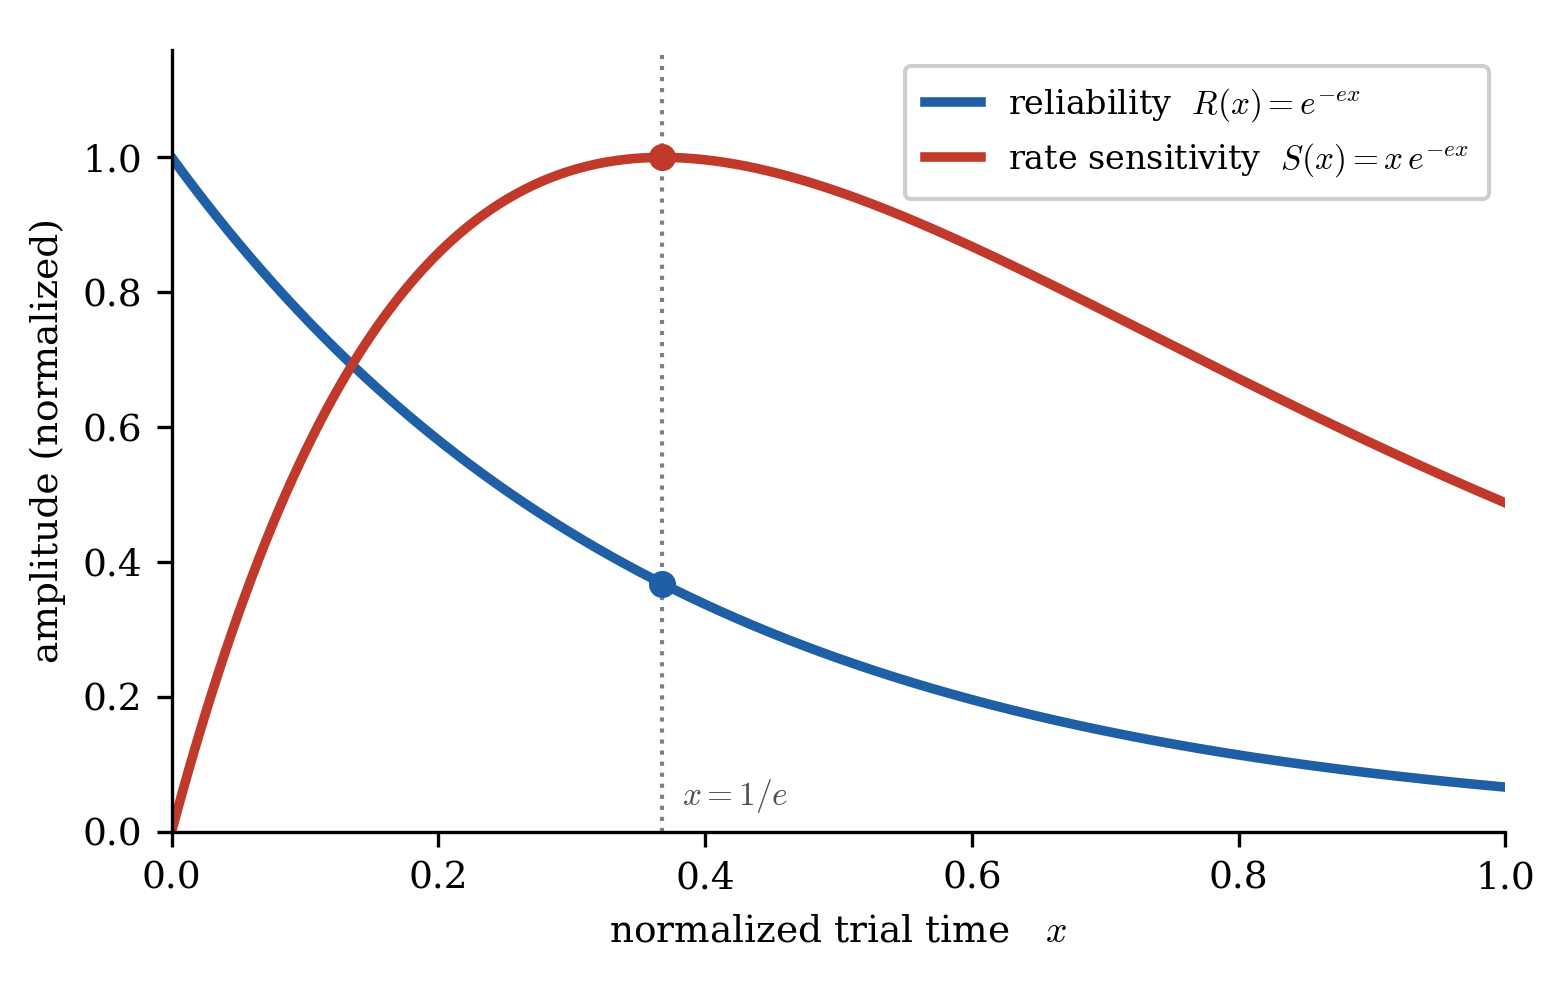
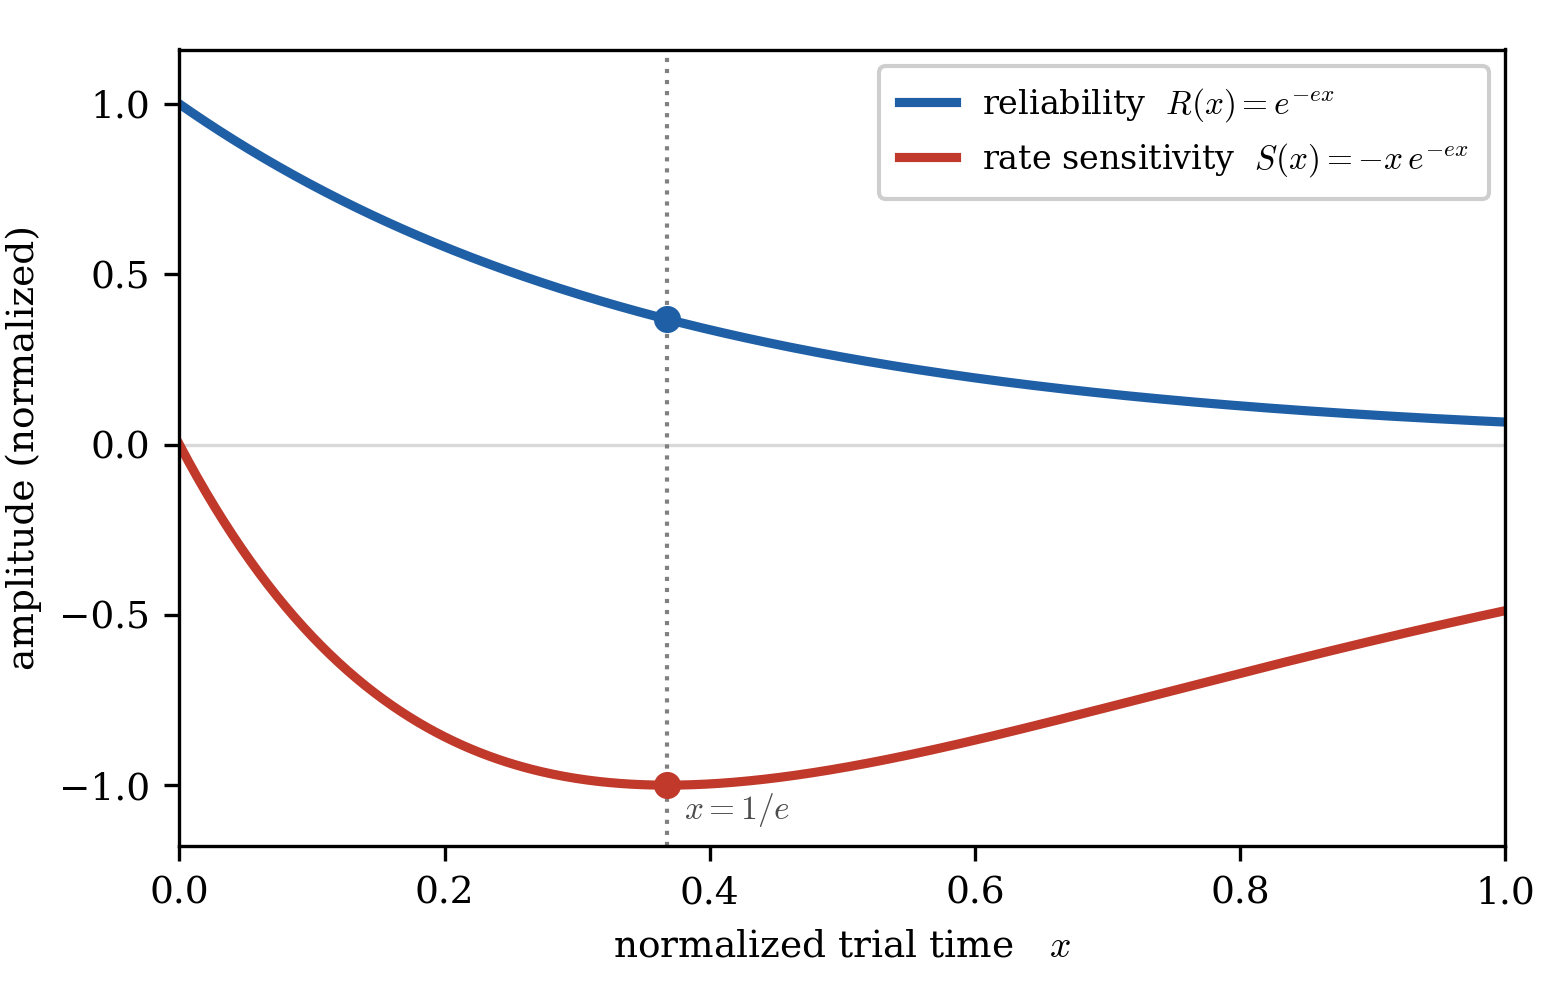
concept fig: signed rate-sensitivity S(x)=-x e^{-ex} in the canonical generator
The generator computed the OLD unsigned S(x)=x e^{-ex} (peak); the signed
convention (trough; sign carried in the affine gain A of A*S(x)+B) had only been
applied to a forked copy in the master-loop workspace. Port it into the spoke
(canonical) so 'regenerate from the spoke' no longer silently regresses the
manuscript. Regenerated FigConcept matches the shipped figure + the main.tex
caption (trough at x=1/e).

diff --git a/code/analysis/plotFigConcept_Sensitivity.py b/code/analysis/plotFigConcept_Sensitivity.py
@@ -1,17 +1,27 @@
 #!/usr/bin/env python3
 """
 Concept figure for the PNAS Nexus manuscript (the "clock-free sensitivity
-framework"). Model schematic, no empirical data: a prepared metastable state
-of readiness decays, and its sensitivity to the decay rate peaks at the 1/e
-optimal-stopping point.
+framework"). Model schematic, no empirical data: a poised metastable state of
+readiness decays, and its rate-sensitivity -- the SIGNED derivative of
+reliability with respect to the decay rate -- is a trough whose extremum sits
+at the 1/e optimal-stopping time:
 
-  reliability / survival:  R(x)   = e^{-e x}
-  rate sensitivity:        S(x)   = x e^{-e x}   (shown normalized to its max)
+  reliability / survival:  R(x) = e^{-e x}
+  rate sensitivity:        S(x) = dR/dlambda = -x e^{-e x}   (lambda = rate)
 
-Both landmark at x = 1/e. This is the standalone version of the schematic that
-was previously Panel A of the neural figure; it now sits up front in the main
-text (Sec. "A clock-free, state-based reframing"), so the figure title is
-supplied by the LaTeX \\caption (no baked-in title here).
+S is shown normalized to its extremum (the trough reaches -1). The sign of a
+given empirical readout is carried in the fitted gain A of the affine
+observation model A*S(x)+B, NOT inside S: a readout that PEAKS (clicks, the 1/f
+exponent) is A*S(x) with A<0; the global scalp-potential trough is A*S(x) with
+A>0. Both landmark at x=1/e. This is the standalone schematic that was
+previously Panel A of the neural figure; it now sits up front in the main text
+(Sec. "A clock-free, state-based reframing"), so the figure title is supplied
+by the LaTeX \\caption (no baked-in title here).
+
+CANONICAL SOURCE. This is the single generator for FigConcept_Sensitivity; the
+master-loop workspace holds only a derived mirror, refreshed by sync-figures.sh
+(never hand-edited). Keep the geometric S(x) here in sync with the manuscript's
+Eq. (sensitivity) and the affine A*S(x)+B observation model.
 
 OUTPUT: ../../results/FigConcept_Sensitivity.{pdf,png}
 """
@@ -27,35 +37,34 @@ mpl.rcParams.update({
     "font.size": 9,
     "axes.linewidth": 0.8,
     "mathtext.fontset": "cm",
-    "axes.spines.top": False,
-    "axes.spines.right": False,
 })
 
 E = np.e
 INV_E = 1.0 / np.e
 
-C_SURV = "#1f5fa6"   # blue - reliability / survival of the metastable state
-C_SENS = "#c0392b"   # red  - rate sensitivity
+C_SURV = "#1f5fa6"   # blue - reliability / survival of the poised state
+C_SENS = "#c0392b"   # red  - rate sensitivity (signed: a trough)
 
 fig, ax = plt.subplots(figsize=(5.2, 3.3))
-fig.subplots_adjust(left=0.11, right=0.965, top=0.95, bottom=0.16)
+fig.subplots_adjust(left=0.115, right=0.965, top=0.95, bottom=0.145)
 
 x = np.linspace(0, 1, 600)
 R = np.exp(-E * x)
-S = x * np.exp(-E * x)
-Sn = S / S.max()
+S = -x * np.exp(-E * x)            # signed rate sensitivity dR/dlambda (a trough)
+Sn = S / np.max(np.abs(S))        # normalized so the trough reaches -1
 
-ax.plot(x, R, color=C_SURV, lw=2.3, label=r"reliability  $R(x)=e^{-e x}$")
-ax.plot(x, Sn, color=C_SENS, lw=2.3, label=r"rate sensitivity  $S(x)=x\,e^{-e x}$")
+ax.axhline(0.0, color="0.85", lw=0.8, zorder=0)
+ax.plot(x, R, color=C_SURV, lw=2.2, label=r"reliability  $R(x)=e^{-e x}$")
+ax.plot(x, Sn, color=C_SENS, lw=2.2, label=r"rate sensitivity  $S(x)=-x\,e^{-e x}$")
 
-# 1/e landmark
+# 1/e landmark: reliability at 1/e, sensitivity trough at -1
 ax.axvline(INV_E, color="0.5", ls=":", lw=1.0)
 ax.plot([INV_E], [INV_E], "o", color=C_SURV, ms=5.5, zorder=6)
-ax.plot([INV_E], [1.0], "o", color=C_SENS, ms=5.5, zorder=6)
-ax.text(INV_E + 0.015, 0.04, r"$x = 1/e$", color="0.3", fontsize=8)
+ax.plot([INV_E], [-1.0], "o", color=C_SENS, ms=5.5, zorder=6)
+ax.text(INV_E + 0.013, -1.10, r"$x=1/e$", color="0.3", fontsize=8)
 
 ax.set_xlim(0, 1)
-ax.set_ylim(0, 1.16)
+ax.set_ylim(-1.18, 1.16)
 ax.set_xlabel(r"normalized trial time   $x$")
 ax.set_ylabel("amplitude (normalized)")
 ax.legend(loc="upper right", fontsize=8, frameon=True, framealpha=0.95,
